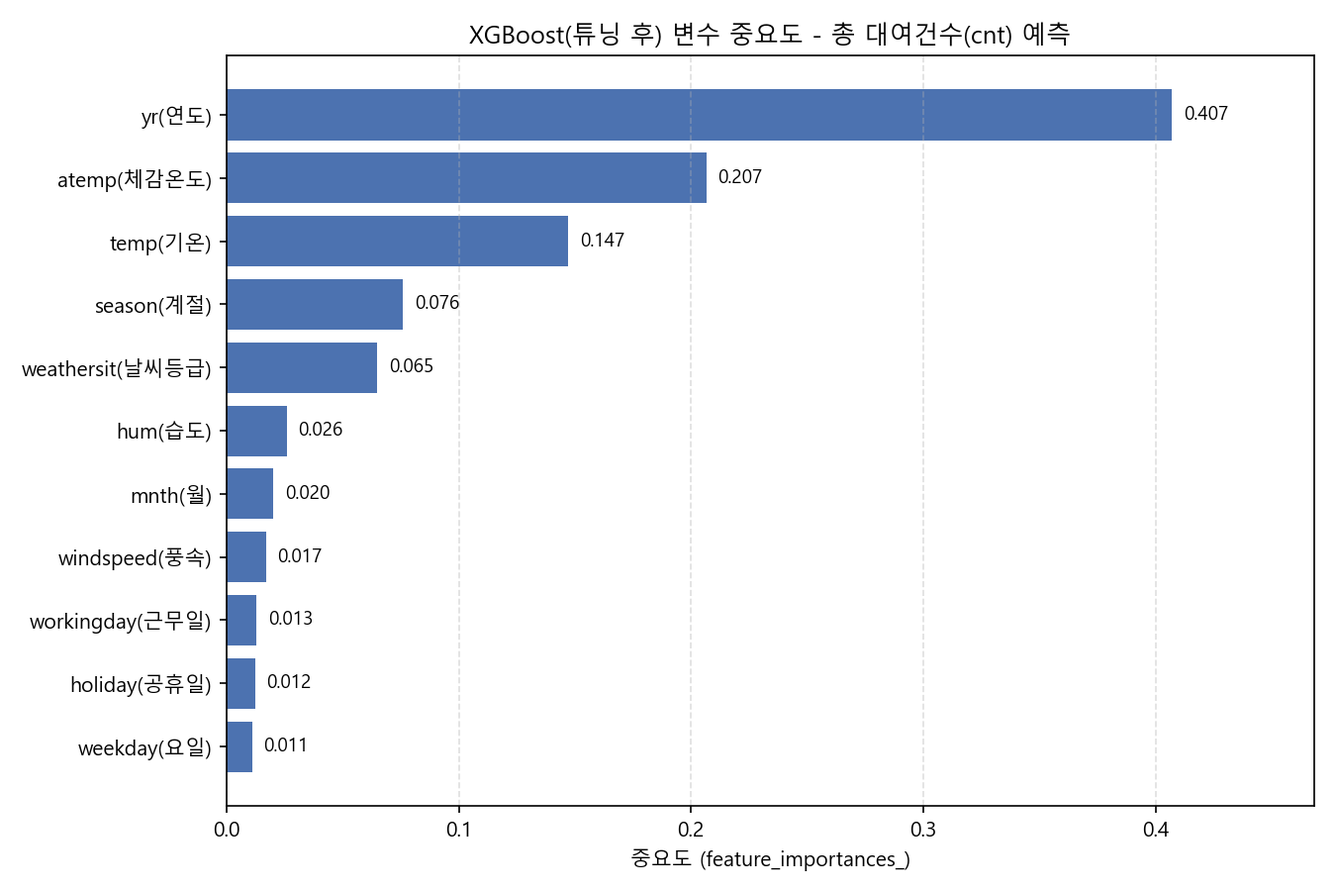
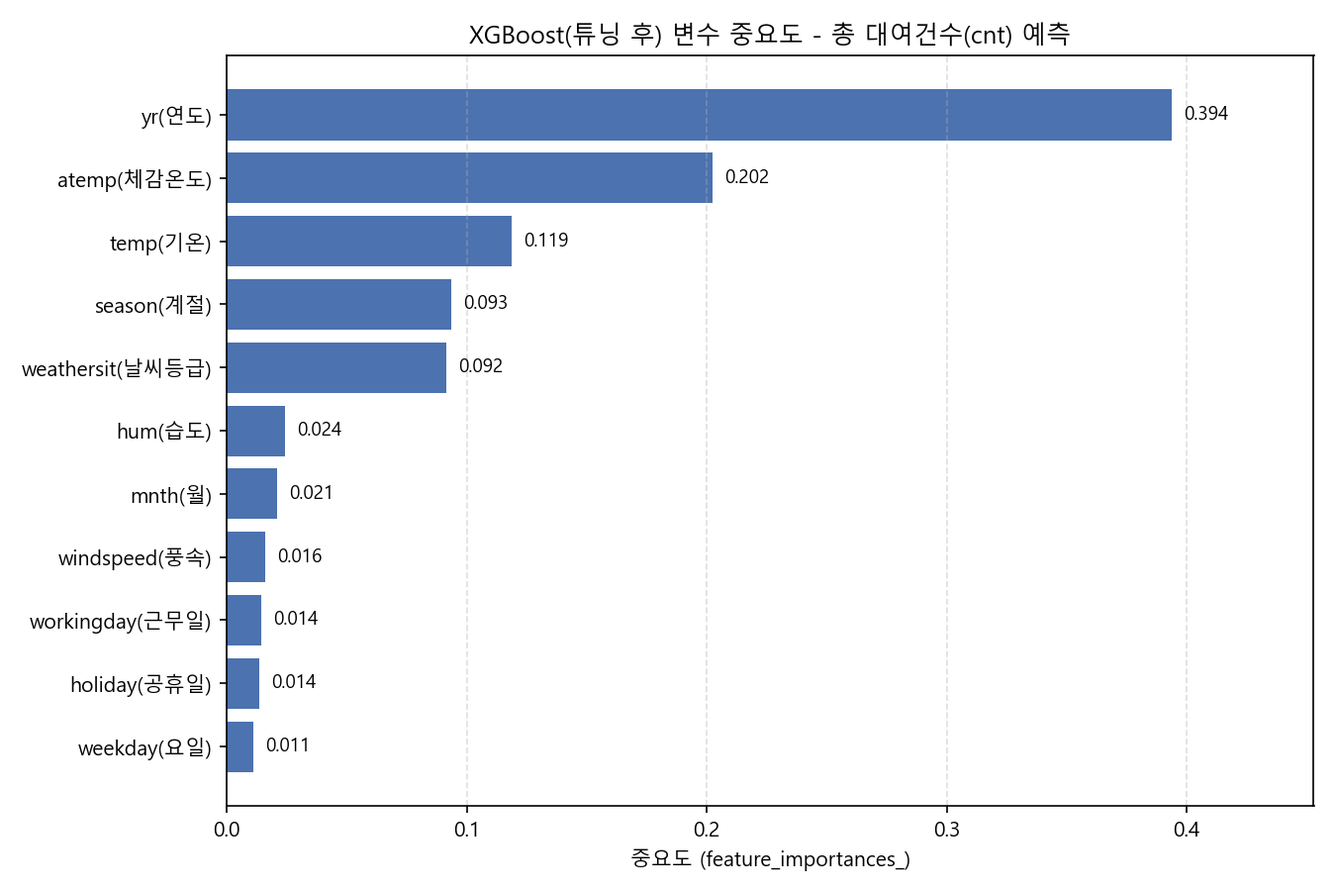
Use TimeSeriesSplit for hyperparameter tuning CV
train/test는 시간순으로 나눴지만 GridSearchCV의 교차검증이 기본
KFold(shuffle=True)로 학습 구간 내부를 다시 섞고 있어, 같은 문제가 한 단계
안쪽에서 재발하고 있었다. 검증 조각의 앞뒤 날짜가 학습 조각에 포함되어
CV 점수가 낙관적으로 나올 뿐 아니라, 그 쉬운 문제에 유리한 설정이 선택된다.

- cv=KFold(shuffle=True) -> TimeSeriesSplit(n_splits=5)
- 선택된 하이퍼파라미터가 실제로 변경됨:
  max_depth 4->3, learning_rate 0.05->0.1
- 동일 설정에 대한 CV 점수 비교를 튜닝 결과에 함께 기록:
  무작위 KFold 597.24 / TimeSeriesSplit 1139.07 / 실제 test 968.39
  KFold가 실제보다 371건 후한 점수를 준다는 것을 수치로 확인
- test 성능: RMSE 958.33 -> 968.39, R2 0.7387 -> 0.7331
  (근소하게 하락. 점수를 올리는 수정이 아니라 선택 근거를 실전과
   같은 기준으로 맞추는 수정)
- 11_split_comparison.py의 하드코딩 파라미터도 common.load_best_params()로 통일
- REPORT 한계 목록에서 'CV 분할 방식' 항목 해소

diff --git a/src/07_xgboost_tuning.py b/src/07_xgboost_tuning.py
@@ -1,10 +1,24 @@
 """
-7단계: XGBoost 하이퍼파라미터 튜닝 (GridSearchCV, 5-fold CV)
+7단계: XGBoost 하이퍼파라미터 튜닝 (GridSearchCV, 5-fold TimeSeriesSplit)
+
+교차검증 분할도 시간 순서를 지켜야 한다.
+기본 KFold(shuffle=True)는 학습 구간 내부를 무작위로 섞으므로, 3단계에서
+train/test를 시간순으로 나눈 의미가 튜닝 단계에서 다시 사라진다. 검증 조각의
+앞뒤 날짜가 학습 조각에 포함되어 '양옆 값을 보고 가운데를 메우는' 쉬운 문제가
+되고, 그 결과 CV 점수가 낙관적으로 나올 뿐 아니라 **그 쉬운 문제에 유리한
+하이퍼파라미터**가 선택된다(예: 국소 패턴을 외우기 좋은 더 깊은 트리).
+
+TimeSeriesSplit은 항상 '앞 구간으로 학습 -> 바로 다음 구간으로 검증'하도록
+분할을 확장해가므로, 실제 사용 시나리오(과거로 배워 미래를 예측)와 같은
+기준으로 하이퍼파라미터를 고르게 된다.
+
+※ TimeSeriesSplit은 행 순서를 시간 순으로 가정하므로 data/train.csv가
+   날짜순으로 정렬되어 있어야 한다(3단계에서 보장).
 """
 import pandas as pd
 import numpy as np
 from xgboost import XGBRegressor
-from sklearn.model_selection import GridSearchCV, KFold
+from sklearn.model_selection import GridSearchCV, TimeSeriesSplit, KFold, cross_val_score
 from sklearn.metrics import mean_squared_error, mean_absolute_error, r2_score
 
 train_df = pd.read_csv('data/train.csv')
@@ -22,7 +36,7 @@ param_grid = {
 }
 
 base_model = XGBRegressor(random_state=42, n_jobs=-1)
-cv = KFold(n_splits=5, shuffle=True, random_state=42)
+cv = TimeSeriesSplit(n_splits=5)
 grid = GridSearchCV(base_model, param_grid, scoring='neg_root_mean_squared_error', cv=cv, n_jobs=-1, verbose=0)
 grid.fit(X_train, y_train)
 
@@ -33,11 +47,28 @@ rmse = np.sqrt(mean_squared_error(y_test, pred))
 mae = mean_absolute_error(y_test, pred)
 r2 = r2_score(y_test, pred)
 
+# 참고: 선택된 설정을 '무작위 KFold'로도 채점해, 기존 방식이 얼마나 낙관적이었는지 보여준다.
+kfold_rmse = -cross_val_score(
+    XGBRegressor(**{**grid.best_params_, 'random_state': 42, 'n_jobs': -1}),
+    X_train, y_train,
+    scoring='neg_root_mean_squared_error',
+    cv=KFold(n_splits=5, shuffle=True, random_state=42),
+).mean()
+
 lines = ['# XGBoost 하이퍼파라미터 튜닝 결과\n']
-lines.append('GridSearchCV, 5-fold 교차검증, scoring=neg_root_mean_squared_error\n')
+lines.append('GridSearchCV, 5-fold **TimeSeriesSplit** 교차검증, scoring=neg_root_mean_squared_error\n')
 lines.append(f'\n## 최적 하이퍼파라미터\n{grid.best_params_}\n')
 lines.append(f'\nCV 최적 RMSE: {-grid.best_score_:.2f}\n')
 lines.append(f'\n## test set 성능\n- RMSE: {rmse:.2f}\n- MAE: {mae:.2f}\n- R2: {r2:.4f}\n')
+
+lines.append('\n## 교차검증 방식에 따른 점수 차이 (동일 하이퍼파라미터 기준)\n\n')
+lines.append('| 채점 방식 | RMSE | 실제(test)와의 격차 |\n|---|---|---|\n')
+lines.append(f'| 무작위 KFold (기존 방식) | {kfold_rmse:.2f} | {rmse - kfold_rmse:+.0f} |\n')
+lines.append(f'| TimeSeriesSplit (현재 채택) | {-grid.best_score_:.2f} | {rmse - (-grid.best_score_):+.0f} |\n')
+lines.append(f'| **실제 test set** | **{rmse:.2f}** | — |\n')
+lines.append('\n무작위 KFold는 검증 조각의 앞뒤 날짜가 학습 조각에 포함되어 실제보다 후한 점수를 준다. '
+             'TimeSeriesSplit은 항상 과거로 학습해 미래를 검증하므로 실제 test 성능에 더 가까운 값을 내며, '
+             '따라서 하이퍼파라미터도 실제 사용 시나리오와 같은 기준으로 선택된다.\n')
 lines.append('\n## 변수 중요도 (튜닝 후)\n| 변수 | 중요도 |\n|---|---|\n')
 for c, imp in sorted(zip(feature_cols, best_model.feature_importances_), key=lambda x: -x[1]):
     lines.append(f'| {c} | {imp:.4f} |\n')
@@ -47,4 +78,5 @@ with open('outputs/model/xgboost_tuning_result.md', 'w', encoding='utf-8') as f:
 
 print('저장 완료: outputs/model/xgboost_tuning_result.md')
 print('최적 하이퍼파라미터:', grid.best_params_)
-print(f'RMSE={rmse:.2f}, MAE={mae:.2f}, R2={r2:.4f}')
+print(f'CV(TimeSeriesSplit) RMSE={-grid.best_score_:.2f} / CV(무작위 KFold) RMSE={kfold_rmse:.2f}')
+print(f'test: RMSE={rmse:.2f}, MAE={mae:.2f}, R2={r2:.4f}')

diff --git a/src/11_split_comparison.py b/src/11_split_comparison.py
@@ -20,11 +20,13 @@ from xgboost import XGBRegressor
 from sklearn.model_selection import train_test_split
 from sklearn.metrics import mean_squared_error, mean_absolute_error, r2_score
 
+from common import load_best_params
+
 df = pd.read_csv('data/day.csv').sort_values('instant').reset_index(drop=True)
 feature_cols = [c for c in df.columns if c not in ['instant', 'dteday', 'cnt', 'casual', 'registered']]
 
-PARAMS = dict(n_estimators=300, max_depth=3, learning_rate=0.05,
-              subsample=0.8, random_state=42, n_jobs=-1)
+# 세 방식 모두 동일 하이퍼파라미터(07단계 튜닝 결과)로 고정해, 분할 방식의 효과만 비교한다.
+PARAMS = load_best_params()
 
 
 def evaluate(train_df, test_df):

diff --git a/docs/REPORT.md b/docs/REPORT.md
@@ -60,19 +60,19 @@
 
 | 분할 방식 | RMSE | MAE | R2 |
 |---|---|---|---|
-| A) 무작위 분할 | 659.26 | 440.53 | 0.8916 |
-| **B) 시간순 분할 (본 리포트 채택)** | **970.21** | **790.91** | **0.7321** |
-| C) 2011년 학습 → 2012년 예측 | 2,211.58 | 2,065.02 | -0.5330 |
+| A) 무작위 분할 | 655.15 | 432.61 | 0.8930 |
+| **B) 시간순 분할 (본 리포트 채택)** | **968.39** | **801.40** | **0.7331** |
+| C) 2011년 학습 → 2012년 예측 | 2,211.75 | 2,064.64 | -0.5332 |
 
-- **A는 실제 오차(970건)를 659건으로 32% 낮게 보고한다.** 무작위 분할로 얻은 R2 0.89는 모델의 실력이 아니라 평가 설계의 산물이다.
+- **A는 실제 오차(968건)를 655건으로 32% 낮게 보고한다.** 무작위 분할로 얻은 R2 0.89는 모델의 실력이 아니라 평가 설계의 산물이다.
 - **C의 음수 R2**는 "2012년 실제 평균(5,600건)을 미리 알고 일괄 대입하는 것보다도 못하다"는 뜻이다(R2는 테스트셋 자신의 평균을 기준으로 계산되므로). 2011년만 학습한 모델에게 `yr=1`은 본 적 없는 값이라 트리가 외삽하지 못하고 2011년 수준(3,406건)에 머문 예측을 내놓기 때문이며, 이것이 5절 detrend 분석의 직접적 근거다.
-- B 기준 "학습 기간 평균만 예측"하는 baseline은 RMSE 2,561로, 모델(970)이 이보다 **62% 개선**되어 실제 기여가 있음을 확인할 수 있다.
+- B 기준 "학습 기간 평균만 예측"하는 baseline은 RMSE 2,561로, 모델(968)이 이보다 **62% 개선**되어 실제 기여가 있음을 확인할 수 있다.
 
 ### 4.3 모델 성능 비교
 
 | 순위 | 모델 | RMSE | MAE | R2 |
 |---|---|---|---|---|
-| 1 | **XGBoost (튜닝 후)** | **958.33** | **774.09** | **0.7387** |
+| 1 | **XGBoost (튜닝 후)** | **968.39** | **801.40** | **0.7331** |
 | 2 | XGBoost (기본값) | 980.80 | 804.28 | 0.7263 |
 | 3 | 랜덤포레스트 | 1,112.20 | 910.29 | 0.6480 |
 | 4 | 선형회귀 | 1,166.02 | 863.86 | 0.6131 |
@@ -91,33 +91,44 @@
 
 ### 4.4 XGBoost 하이퍼파라미터 튜닝
 
-GridSearchCV(5-fold CV, scoring=neg_root_mean_squared_error)로 `n_estimators, max_depth, learning_rate, subsample` 총 162개 조합을 탐색했다.
+GridSearchCV(5-fold **TimeSeriesSplit**, scoring=neg_root_mean_squared_error)로 `n_estimators, max_depth, learning_rate, subsample` 총 162개 조합을 탐색했다.
 
-- 최적 조합: `learning_rate=0.05, max_depth=4, n_estimators=300, subsample=0.8` (CV RMSE 588.27)
-- 기본 하이퍼파라미터(`subsample=1.0`) 대비 test RMSE가 980.80 → 958.33으로 개선됨
-- `subsample=0.8`로 매 트리가 데이터의 80%만 사용하게 해 트리 간 다양성을 확보한 것이 개선의 주 요인이다. 다만 개선 폭(2.3%)은 분할 방식을 바꿨을 때의 차이(32%)에 비하면 미미하며, **하이퍼파라미터 튜닝보다 평가 설계가 결과에 훨씬 큰 영향을 준다**는 점을 보여준다.
-- CV RMSE(588)가 test RMSE(958)보다 크게 낮은 것도 주목할 만하다. GridSearchCV의 기본 KFold는 학습 구간 내부를 무작위로 섞으므로, 4.2절에서 설명한 것과 같은 낙관적 편향이 CV 점수에도 그대로 나타난다. (개선하려면 `TimeSeriesSplit` 사용이 필요하며, 이는 남은 과제로 둔다.)
+- 최적 조합: `learning_rate=0.1, max_depth=3, n_estimators=300, subsample=0.8`
+- 기본 하이퍼파라미터 대비 test RMSE 980.80 → 968.39 (1.3% 개선)
+
+**교차검증 분할도 시간 순서를 지켜야 한다.** 4.2절에서 train/test를 시간순으로 나눴더라도, 튜닝 단계의 교차검증이 학습 구간 내부를 무작위로 섞으면(`KFold(shuffle=True)`) 같은 문제가 한 단계 안쪽에서 그대로 재발한다. 검증 조각의 앞뒤 날짜가 학습 조각에 들어가기 때문이다.
+
+동일 하이퍼파라미터를 두 방식으로 채점한 결과:
+
+| 채점 방식 | CV RMSE | 실제 test(968.39)와의 격차 |
+|---|---|---|
+| 무작위 KFold (기존) | 597.24 | **-371 (과대평가)** |
+| TimeSeriesSplit (채택) | 1,139.07 | +171 (보수적) |
+
+- 무작위 KFold는 실제보다 **371건이나 후한** 점수를 준다. 이 점수를 기준으로 조합을 고르면, "빈칸 채우기"에 유리한 설정(국소 패턴을 외우기 좋은 깊은 트리)이 선택된다. 실제로 KFold로 튜닝했을 때는 `max_depth=4, learning_rate=0.05`가, TimeSeriesSplit으로 바꾸자 `max_depth=3, learning_rate=0.1`이 선택되어 **채점 방식에 따라 선택 자체가 달라졌다.**
+- TimeSeriesSplit CV(1,139)가 test(968)보다 오히려 나쁜 것은 정상이다. 이 방식은 앞 구간부터 조금씩 늘려가며 검증하므로, 초기 fold는 최종 모델보다 훨씬 적은 데이터로 학습해 오차가 크게 나오고 그것이 평균에 반영된다. 즉 **보수적으로(비관적으로) 추정**하는 쪽이며, 과대평가보다는 안전한 편향이다.
+- 튜닝의 개선 폭(1.3%)은 분할 방식을 바꿨을 때의 차이(32%)에 비하면 미미하다. **어떤 모델·어떤 파라미터를 쓸지보다 어떻게 평가할지가 결과에 훨씬 큰 영향을 준다.**
 
 ### 4.5 변수 중요도 (튜닝된 XGBoost 기준)
 
 | 그룹 | 변수 | 중요도 | 누적 |
 |---|---|---|---|
-| 핵심 | yr (연도) | 0.407 | 40.7% |
-| 핵심 | atemp (체감온도) | 0.207 | 61.4% |
-| 핵심 | temp (기온) | 0.147 | 76.1% |
-| 보조 | season (계절) | 0.076 | 83.6% |
-| 보조 | weathersit (날씨등급) | 0.065 | 90.1% |
-| 미미 | hum, mnth, windspeed, workingday, holiday, weekday | 각 0.011~0.026 | 나머지 9.9% |
+| 핵심 | yr (연도) | 0.394 | 39.4% |
+| 핵심 | atemp (체감온도) | 0.202 | 59.6% |
+| 핵심 | temp (기온) | 0.119 | 71.5% |
+| 보조 | season (계절) | 0.093 | 80.8% |
+| 보조 | weathersit (날씨등급) | 0.092 | 90.0% |
+| 미미 | hum, mnth, windspeed, workingday, holiday, weekday | 각 0.008~0.024 | 나머지 10.0% |
 
 (`outputs/model/xgboost_feature_importance.png`, `.csv`)
 
-> **해석 시 주의**: `temp`와 `atemp`의 상관계수는 0.9917로 사실상 같은 변수다. 트리 모델의 gain 기반 중요도는 상관이 높은 변수 사이에서 값이 임의로 분배되므로, 둘의 개별 순위(atemp 0.207 vs temp 0.147)에는 큰 의미를 두지 않는 것이 안전하다. "기온 계열이 합쳐서 약 35%"로 묶어 읽어야 한다. 보다 엄밀한 요인 규명에는 permutation importance나 SHAP이 적합하며, 이는 남은 과제로 둔다.
+> **해석 시 주의**: `temp`와 `atemp`의 상관계수는 0.9917로 사실상 같은 변수다. 트리 모델의 gain 기반 중요도는 상관이 높은 변수 사이에서 값이 임의로 분배되므로, 둘의 개별 순위(atemp 0.202 vs temp 0.119)에는 큰 의미를 두지 않는 것이 안전하다. "기온 계열이 합쳐서 약 32%"로 묶어 읽어야 한다. 보다 엄밀한 요인 규명에는 permutation importance나 SHAP이 적합하며, 이는 남은 과제로 둔다.
 
 ## 5. 모델 재사용성 검증: yr 변수의 한계와 보정
 
 ### 5.1 문제
 
-`yr`은 2011/2012 두 범주뿐인 이진 변수로, 중요도 40.7%로 최상위였다. 이는 "날씨/계절의 진짜 효과"가 아니라 "그 2년간 서비스가 이만큼 성장했다"는 사실을 모델이 암기한 결과이며, **미래 연도(2013년 이후)로 일반화할 수 없다.**
+`yr`은 2011/2012 두 범주뿐인 이진 변수로, 중요도 39.4%로 최상위였다. 이는 "날씨/계절의 진짜 효과"가 아니라 "그 2년간 서비스가 이만큼 성장했다"는 사실을 모델이 암기한 결과이며, **미래 연도(2013년 이후)로 일반화할 수 없다.**
 
 4.2절 표의 C 케이스가 이를 실측으로 보여준다. 2011년만 학습한 모델은 `yr=1`을 한 번도 본 적이 없어 2012년 수요를 2011년 수준으로 예측했고, R2가 -0.53까지 떨어졌다. 즉 `yr`은 **학습 기간 안에서만 유효한 변수**다.
 
@@ -127,8 +138,8 @@ GridSearchCV(5-fold CV, scoring=neg_root_mean_squared_error)로 `n_estimators, m
 
 연도별 평균은 **학습셋만으로 계산**했다. 전체 데이터로 평균을 내면 테스트 구간 정보가 타깃에 섞여 들어가, 하필 "일반화 가능성"을 검증하는 이 분석의 결론이 낙관적으로 왜곡되기 때문이다.
 
-- 성능: RMSE 0.1559 / MAE 0.1106 / R2 = 0.7983 (상대지수 단위이므로 절대치 모델과 직접 비교 불가)
-- 변수 중요도: atemp(0.326) > temp(0.191) > season(0.164) > weathersit(0.134) — 날씨/계절 계열 합산 약 81.5%
+- 성능: RMSE 0.1592 / MAE 0.1138 / R2 = 0.7898 (상대지수 단위이므로 절대치 모델과 직접 비교 불가)
+- 변수 중요도: season(0.244) > temp(0.230) > atemp(0.205) > weathersit(0.148) — 날씨/계절 계열 합산 약 82.6%
 - `yr`이 빠지자 기온·계절·날씨가 그 자리를 채웠다. 이 구조는 연도와 무관하게 재사용 가능한, 진짜 "날씨/계절이 수요에 미치는 영향" 패턴으로 해석할 수 있다
 
 ### 5.3 실무 적용을 위한 2단계 파이프라인 제안
@@ -143,7 +154,7 @@ GridSearchCV(5-fold CV, scoring=neg_root_mean_squared_error)로 `n_estimators, m
 
 ## 6. 최종 결론
 
-1. **핵심 영향 요인은 "서비스 성장 추세 + 기온/계절"**이다. 다만 "성장 추세(yr)"는 해당 데이터셋 특유의 정보로 미래에 재사용할 수 없고, **재사용 가능한 진짜 요인은 기온(temp/atemp)·계절(season)·날씨등급(weathersit)**이며 이들을 합치면 detrend 모델에서 약 81%의 설명력을 차지한다.
+1. **핵심 영향 요인은 "서비스 성장 추세 + 기온/계절"**이다. 다만 "성장 추세(yr)"는 해당 데이터셋 특유의 정보로 미래에 재사용할 수 없고, **재사용 가능한 진짜 요인은 기온(temp/atemp)·계절(season)·날씨등급(weathersit)**이며 이들을 합치면 detrend 모델에서 약 83%의 설명력을 차지한다.
 2. **날씨가 나쁠수록, 기온이 낮을수록 대여량이 뚜렷하게 감소**한다(박스플롯·상관관계·중요도 분석에서 일관되게 확인).
 3. **요일·공휴일·근무일 변수는 상대적으로 영향이 작다.** 계절/날씨 대응 전략(우천 시 대체 서비스, 혹한기 이용 유도책 등)이 요일별 프로모션보다 효과적일 것으로 판단된다.
 4. **모델 선택**: 예측 정확도가 목적이면 XGBoost(튜닝)를 채택하되, "왜 그런가"를 설명해야 하는 보고서에는 detrend 분석(재사용 가능한 요인)을 함께 제시하는 것이 타당하다.
@@ -156,7 +167,6 @@ GridSearchCV(5-fold CV, scoring=neg_root_mean_squared_error)로 `n_estimators, m
 
 | 항목 | 내용 |
 |---|---|
-| CV 분할 방식 | GridSearchCV가 기본 `KFold`를 사용해, 교차검증 점수(588)에는 여전히 무작위 분할의 낙관적 편향이 남아 있다. `TimeSeriesSplit`으로 교체 필요 |
 | 다중공선성 | `temp`~`atemp` 상관 0.9917. VIF 점검 없이 둘 다 투입했으므로 개별 중요도 순위는 신뢰도가 낮다 |
 | 중요도 산출 방법 | gain 기반 `feature_importances_`는 상관 높은 변수에 취약. permutation importance 또는 SHAP으로 재검증 필요 |
 | 범주형 인코딩 | `season`(1~4), `mnth`(1~12), `weekday`(0~6)를 순서형 숫자로 투입했다. 트리 모델에는 영향이 제한적이나, **선형회귀의 해당 계수는 해석해선 안 된다**(계절은 등간격 척도가 아니므로) |

diff --git a/docs/CLAUDE_WORKFLOW.md b/docs/CLAUDE_WORKFLOW.md
@@ -42,13 +42,17 @@
 
 | 분할 방식 | RMSE | R2 |
 |---|---|---|
-| 무작위 분할 (기존) | 659 | 0.89 |
-| 시간순 분할 (수정 후) | 970 | 0.73 |
+| 무작위 분할 (기존) | 655 | 0.89 |
+| 시간순 분할 (수정 후) | 968 | 0.73 |
 | 2011년 -> 2012년 예측 | 2,212 | -0.53 |
 
-기존 방식이 실제 오차를 32% 낮게 보고하고 있었다. **겉보기 점수는 0.89에서 0.74로 떨어졌지만**, 이 수정으로 얻은 것이 더 크다. 세 번째 행의 음수 R2가 앞서 4번에서 제기했던 "`yr`은 미래에 재사용 불가"라는 문제 의식이 옳았다는 **정량적 증거**가 되어, detrend 분석의 근거가 말에서 숫자로 바뀌었기 때문이다.
+기존 방식이 실제 오차를 32% 낮게 보고하고 있었다. **겉보기 점수는 0.89에서 0.73으로 떨어졌지만**, 이 수정으로 얻은 것이 더 크다. 세 번째 행의 음수 R2가 앞서 4번에서 제기했던 "`yr`은 미래에 재사용 불가"라는 문제 의식이 옳았다는 **정량적 증거**가 되어, detrend 분석의 근거가 말에서 숫자로 바뀌었기 때문이다.
 
-같은 리뷰에서 detrend 분석의 연도 평균을 전체 데이터로 계산하던 누수도 함께 발견해 학습셋 기준으로 수정했고, 문서에 서술되어 있으나 실제 코드로 존재하지 않던 어블레이션 실험 관련 문장도 삭제했다. 또한 확인된 한계(다중공선성 미처리, CV의 KFold 사용 등)는 숨기지 않고 REPORT의 "한계 및 남은 과제" 절에 명시했다.
+같은 리뷰에서 detrend 분석의 연도 평균을 전체 데이터로 계산하던 누수도 함께 발견해 학습셋 기준으로 수정했고, 문서에 서술되어 있으나 실제 코드로 존재하지 않던 어블레이션 실험 관련 문장도 삭제했다.
+
+이어서 **같은 문제가 한 단계 안쪽에도 남아 있다는 점**을 확인했다. train/test는 시간순으로 고쳤지만, 하이퍼파라미터를 고르는 GridSearchCV의 교차검증은 여전히 기본 `KFold(shuffle=True)`로 학습 구간 내부를 섞고 있었다. 이를 `TimeSeriesSplit`으로 교체하자 동일 설정에 대한 CV 점수가 597 → 1,139로 바뀌었고(실제 test는 968), **선택되는 하이퍼파라미터 자체가 달라졌다**(`max_depth` 4→3, `learning_rate` 0.05→0.1). 채점 기준이 실전과 다르면 1등도 달라진다는 것을 수치로 확인한 셈이다.
+
+남은 한계(다중공선성 미처리, 범주형 인코딩, 2단계 파이프라인 미검증 등)는 숨기지 않고 REPORT의 "한계 및 남은 과제" 절에 명시했다.
 
 이 단계가 보여주는 것은 **자기 결과물을 비판적으로 재검토하고, 불리한 결과가 나와도 그대로 반영하는 태도**다.
 

diff --git a/outputs/model/split_comparison_result.md b/outputs/model/split_comparison_result.md
@@ -4,15 +4,15 @@
 
 | 분할 방식 | RMSE | MAE | R2 |
 |---|---|---|---|
-| A) 무작위 분할 (날짜를 섞음) | 659.26 | 440.53 | 0.8916 |
-| B) 시간순 분할 (앞 80% -> 뒤 20%) | 970.21 | 790.91 | 0.7321 |
-| C) 2011년 학습 -> 2012년 예측 | 2211.58 | 2065.02 | -0.5330 |
+| A) 무작위 분할 (날짜를 섞음) | 655.15 | 432.61 | 0.8930 |
+| B) 시간순 분할 (앞 80% -> 뒤 20%) | 968.39 | 801.40 | 0.7331 |
+| C) 2011년 학습 -> 2012년 예측 | 2211.75 | 2064.64 | -0.5332 |
 
 ## 해석
 
-- **A vs B**: 무작위로 날짜를 섞으면 테스트 날짜의 바로 앞뒤 날이 학습셋에 포함된다. 일별 대여량과 날씨는 하루 사이에 거의 변하지 않으므로, 모델은 "기온·계절로 수요를 추론"하는 대신 "양옆 값을 보고 가운데를 메우는" 쉬운 문제를 푼다. 실제 오차는 970건인데 무작위 분할은 659건으로 보고하므로, 오차를 32% 낮게(= 실력보다 후하게) 측정하는 셈이다.
+- **A vs B**: 무작위로 날짜를 섞으면 테스트 날짜의 바로 앞뒤 날이 학습셋에 포함된다. 일별 대여량과 날씨는 하루 사이에 거의 변하지 않으므로, 모델은 "기온·계절로 수요를 추론"하는 대신 "양옆 값을 보고 가운데를 메우는" 쉬운 문제를 푼다. 실제 오차는 968건인데 무작위 분할은 655건으로 보고하므로, 오차를 32% 낮게(= 실력보다 후하게) 측정하는 셈이다.
 - **B**: 본 프로젝트가 채택한 방식. 같은 기간 평균만 예측하는 baseline(RMSE 2561)보다 62% 개선되어, 모델이 실제로 기여하고 있음을 확인할 수 있다.
-- **C**: R2 -0.5330(음수)는 "2012년의 실제 평균(5600건)을 미리 알고 일괄 대입하는 것보다도 못하다"는 뜻이다. R2는 테스트셋 자신의 평균을 기준으로 계산되기 때문이다.
+- **C**: R2 -0.5332(음수)는 "2012년의 실제 평균(5600건)을 미리 알고 일괄 대입하는 것보다도 못하다"는 뜻이다. R2는 테스트셋 자신의 평균을 기준으로 계산되기 때문이다.
   - 현실적인 대안인 "2011년 평균(3406건)으로 2012년을 예측"과 비교하면 모델(RMSE 2212)이 baseline(RMSE 2829)보다 낫긴 하다. 그러나 두 방식 모두 오차가 2,000건대로, 2012년 일평균 대비 40% 수준이라 실용성이 없다.
   - 원인은 `yr` 변수다. 2011년만 학습한 모델에게 `yr=1`(2012년)은 한 번도 본 적 없는 값이라, 트리 모델은 이를 외삽하지 못하고 자신이 아는 2011년 수준에 머문 예측을 내놓는다.
   - 이것이 `yr`을 제거하고 상대지수로 재학습하는 10단계 detrend 분석의 직접적인 근거다.

diff --git a/outputs/model/xgboost_tuning_result.md b/outputs/model/xgboost_tuning_result.md
@@ -1,27 +1,37 @@
 # XGBoost 하이퍼파라미터 튜닝 결과
-GridSearchCV, 5-fold 교차검증, scoring=neg_root_mean_squared_error
+GridSearchCV, 5-fold **TimeSeriesSplit** 교차검증, scoring=neg_root_mean_squared_error
 
 ## 최적 하이퍼파라미터
-{'learning_rate': 0.05, 'max_depth': 4, 'n_estimators': 300, 'subsample': 0.8}
+{'learning_rate': 0.1, 'max_depth': 3, 'n_estimators': 300, 'subsample': 0.8}
 
-CV 최적 RMSE: 588.27
+CV 최적 RMSE: 1139.07
 
 ## test set 성능
-- RMSE: 958.33
-- MAE: 774.09
-- R2: 0.7387
+- RMSE: 968.39
+- MAE: 801.40
+- R2: 0.7331
+
+## 교차검증 방식에 따른 점수 차이 (동일 하이퍼파라미터 기준)
+
+| 채점 방식 | RMSE | 실제(test)와의 격차 |
+|---|---|---|
+| 무작위 KFold (기존 방식) | 597.24 | +371 |
+| TimeSeriesSplit (현재 채택) | 1139.07 | -171 |
+| **실제 test set** | **968.39** | — |
+
+무작위 KFold는 검증 조각의 앞뒤 날짜가 학습 조각에 포함되어 실제보다 후한 점수를 준다. TimeSeriesSplit은 항상 과거로 학습해 미래를 검증하므로 실제 test 성능에 더 가까운 값을 내며, 따라서 하이퍼파라미터도 실제 사용 시나리오와 같은 기준으로 선택된다.
 
 ## 변수 중요도 (튜닝 후)
 | 변수 | 중요도 |
 |---|---|
-| yr | 0.4071 |
-| atemp | 0.2066 |
-| temp | 0.1470 |
-| season | 0.0758 |
-| weathersit | 0.0647 |
-| hum | 0.0259 |
-| mnth | 0.0200 |
-| windspeed | 0.0169 |
-| workingday | 0.0127 |
-| holiday | 0.0122 |
+| yr | 0.3938 |
+| atemp | 0.2022 |
+| temp | 0.1186 |
+| season | 0.0934 |
+| weathersit | 0.0917 |
+| hum | 0.0244 |
+| mnth | 0.0211 |
+| windspeed | 0.0160 |
+| workingday | 0.0142 |
+| holiday | 0.0136 |
 | weekday | 0.0110 |

diff --git a/outputs/model/detrend_analysis_result.md b/outputs/model/detrend_analysis_result.md
@@ -6,23 +6,23 @@
 `cnt_relative = cnt / (해당 연도 평균 cnt)` 로 변환해 "그 해 평균 대비 몇 배인가"라는 상대지수를 목표변수로 삼고, `yr`을 입력에서 제외한 뒤 날씨/계절/요일 변수로 재학습한다.
 
 ## 성능 (상대지수 단위, 절대치 모델과 직접 비교 불가)
-- RMSE: 0.1559
-- MAE: 0.1106
-- R2: 0.7983
+- RMSE: 0.1592
+- MAE: 0.1138
+- R2: 0.7898
 
 ## 변수 중요도 (yr 제외)
 | 변수 | 중요도 |
 |---|---|
-| atemp | 0.3262 |
-| temp | 0.1908 |
-| season | 0.1640 |
-| weathersit | 0.1337 |
-| hum | 0.0408 |
-| mnth | 0.0368 |
-| workingday | 0.0321 |
-| windspeed | 0.0296 |
-| holiday | 0.0279 |
-| weekday | 0.0180 |
+| season | 0.2435 |
+| temp | 0.2301 |
+| atemp | 0.2046 |
+| weathersit | 0.1479 |
+| mnth | 0.0394 |
+| hum | 0.0353 |
+| workingday | 0.0338 |
+| windspeed | 0.0278 |
+| holiday | 0.0202 |
+| weekday | 0.0174 |
 
 ## 실무 적용: 2단계 예측 파이프라인
 1. 연도별 기준선(baseline) 추정 - 과거 성장 추세(예: 2011->2012 +64%) 또는 등록회원 증가율 등 외부 지표로 미래 연도의 평균 대여량 추정
